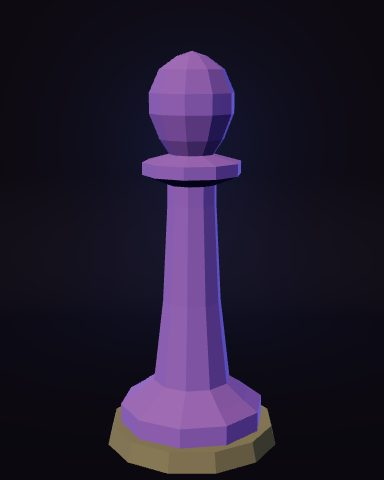
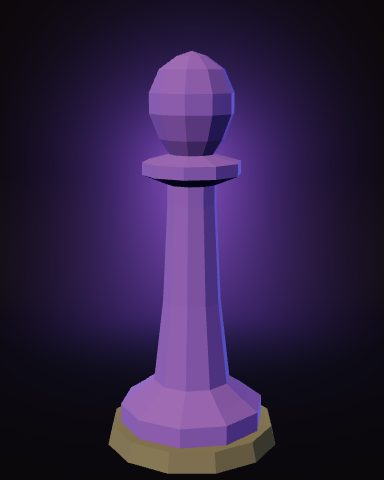
art(betrayal): portrait backdrops glow in the seat's colour
A light gelled in the shown character's seat colour, hidden behind the
figure and reaching only the sweep, washes a pool of that colour on the
backdrop. The moon lamp moves in closer with a short reach so it rims the
figure without tinting the backdrop blue. All 12 portraits re-shot.

diff --git a/src/projects/betrayal/art/figure-viewer.ts b/src/projects/betrayal/art/figure-viewer.ts
@@ -189,9 +189,14 @@ interface LightRig {
   /** Whether the figure stands on a photographer's sweep, its floor curving up into a backdrop behind it as the
    *  camera sees it, in place of the plain round floor. */
   sweep?: true;
+  /** A gel on a light hidden behind the figure, low and close to the backdrop, washing a pool of the shown
+   *  character's seat colour onto it (none for a figure that is no character's). Where it stands is on the
+   *  sweep, from the figure: so far back and so high, reaching so far, which keeps it off the figure. */
+  accent?: { intensity: number; back: number; height: number; reach: number };
   hemisphere: { sky: PaletteKey; ground: PaletteKey; intensity: number };
   key: { colour: PaletteKey; intensity: number; from: THREE.Vector3 };
-  lamp: { colour: PaletteKey; intensity: number; at: THREE.Vector3 };
+  /** The lamp, reaching `reach` metres if not the usual `LAMP_REACH`. */
+  lamp: { colour: PaletteKey; intensity: number; at: THREE.Vector3; reach?: number };
   probe: Cube;
 }
 
@@ -275,14 +280,16 @@ const LIGHT_RIGS: Record<LightPreset, LightRig> = {
     probe: even("moon", 0.3, 0.45, 0.08),
   },
   // A miniature photographed on a dark backdrop: a soft warm key from the front left, a little warm fill, and the
-  // cold moon behind, lighting the backdrop round the figure and catching its edges as a rim.
+  // cold moon behind catching the figure's edges as a rim, while a gel in the character's seat colour glows on the
+  // backdrop behind them.
   portrait: {
     background: "void",
     floor: "ash",
     sweep: true,
+    accent: { intensity: 8, back: 2, height: 0.8, reach: 1.7 },
     hemisphere: { sky: "moon", ground: "void", intensity: 0.6 },
     key: { colour: "boneLight", intensity: 1.4, from: new THREE.Vector3(0.8, 3, 4) },
-    lamp: { colour: "moon", intensity: 4, at: new THREE.Vector3(-1.3, 1, -1.3) },
+    lamp: { colour: "moon", intensity: 6, at: new THREE.Vector3(-0.9, 1.1, -0.9), reach: 2 },
     probe: [
       ["boneDark", 0.45],
       ["moonLight", 1],
@@ -294,6 +301,8 @@ const LIGHT_RIGS: Record<LightPreset, LightRig> = {
   },
 };
 
+/** How far a rig's lamp reaches, in metres. */
+const LAMP_REACH = 6;
 /** How far round the plain floor reaches, in metres. */
 const FLOOR_RADIUS = 4;
 /** The sweep, in metres: how wide, how far its floor reaches in front of the figure and behind it to the foot of
@@ -612,13 +621,17 @@ export function createFigureViewer(search: string) {
 
     const hemisphere = new THREE.HemisphereLight();
     const key = new THREE.DirectionalLight();
-    const lamp = new THREE.PointLight(undefined, 0, 6, 1.5);
+    const lamp = new THREE.PointLight(undefined, 0, LAMP_REACH, 1.5);
+    const gel = new THREE.PointLight(undefined, 0, 1, 1.5);
     const floorMaterial = new THREE.MeshLambertMaterial();
     const floor = new THREE.Mesh(new THREE.CircleGeometry(FLOOR_RADIUS, 64).rotateX(-Math.PI / 2), floorMaterial);
     floor.position.y = -0.002;
     const sweep = new THREE.Mesh(sweepGeometry(), floorMaterial);
     sweep.position.y = -0.002;
-    const stage = group(hemisphere, key, key.target, lamp, floor, sweep);
+    // The gel stands beside the sweep rather than on it: a light under a hidden parent drops out of the scene's
+    // lights, and that recompiles every shader when the rig changes.
+    const backdrop = group(sweep, gel);
+    const stage = group(hemisphere, key, key.target, lamp, floor, backdrop);
     scene.add(stage);
     const background = new THREE.Color();
     scene.background = background;
@@ -639,6 +652,15 @@ export function createFigureViewer(search: string) {
       lamp.color.set(paletteHex(rig.lamp.colour));
       lamp.intensity = rig.lamp.intensity;
       lamp.position.copy(rig.lamp.at);
+      lamp.distance = rig.lamp.reach ?? LAMP_REACH;
+      const seat = snapshot.lineUp ? null : figureById(snapshot.figure).ring;
+      gel.intensity = 0;
+      if (rig.accent && seat !== null) {
+        gel.color.set(paletteHex(seat));
+        gel.intensity = rig.accent.intensity;
+        gel.position.set(0, rig.accent.height, -rig.accent.back);
+        gel.distance = rig.accent.reach;
+      }
       rig.probe.forEach(([colour, strength], face) => {
         tint.set(paletteHex(colour));
         cube[face].set(tint.r, tint.g, tint.b).multiplyScalar(strength);
@@ -735,8 +757,8 @@ export function createFigureViewer(search: string) {
       toward.set(Math.sin(azimuth) * Math.cos(pitch), Math.sin(pitch), Math.cos(azimuth) * Math.cos(pitch));
       camera.position.copy(aim).addScaledVector(toward, distance);
       // The backdrop stands behind the figure, wherever the camera has turned to.
-      sweep.position.set(aim.x, sweep.position.y, aim.z);
-      sweep.rotation.y = azimuth;
+      backdrop.position.set(aim.x, 0, aim.z);
+      backdrop.rotation.y = azimuth;
       controls.target.copy(aim);
       camera.lookAt(aim);
       camera.near = Math.max(0.02, distance / 100);
